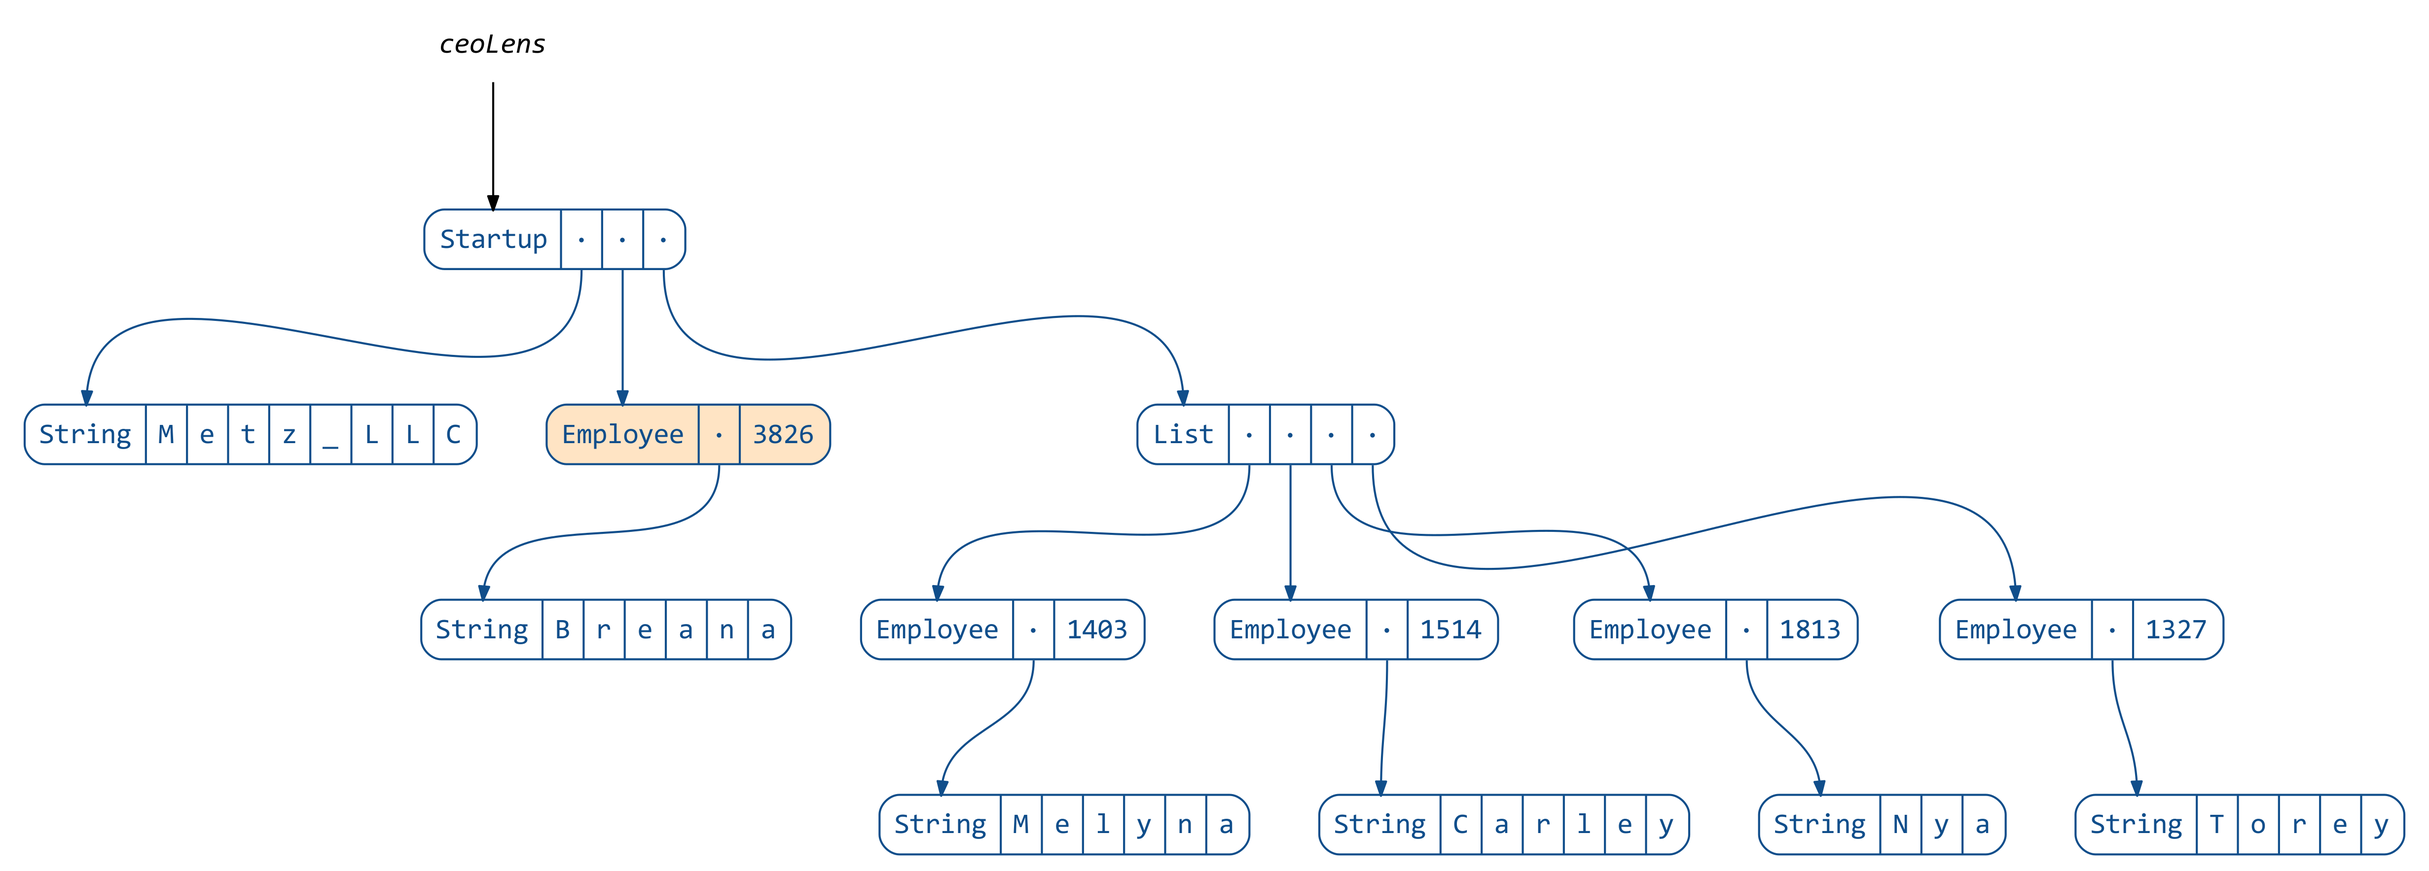
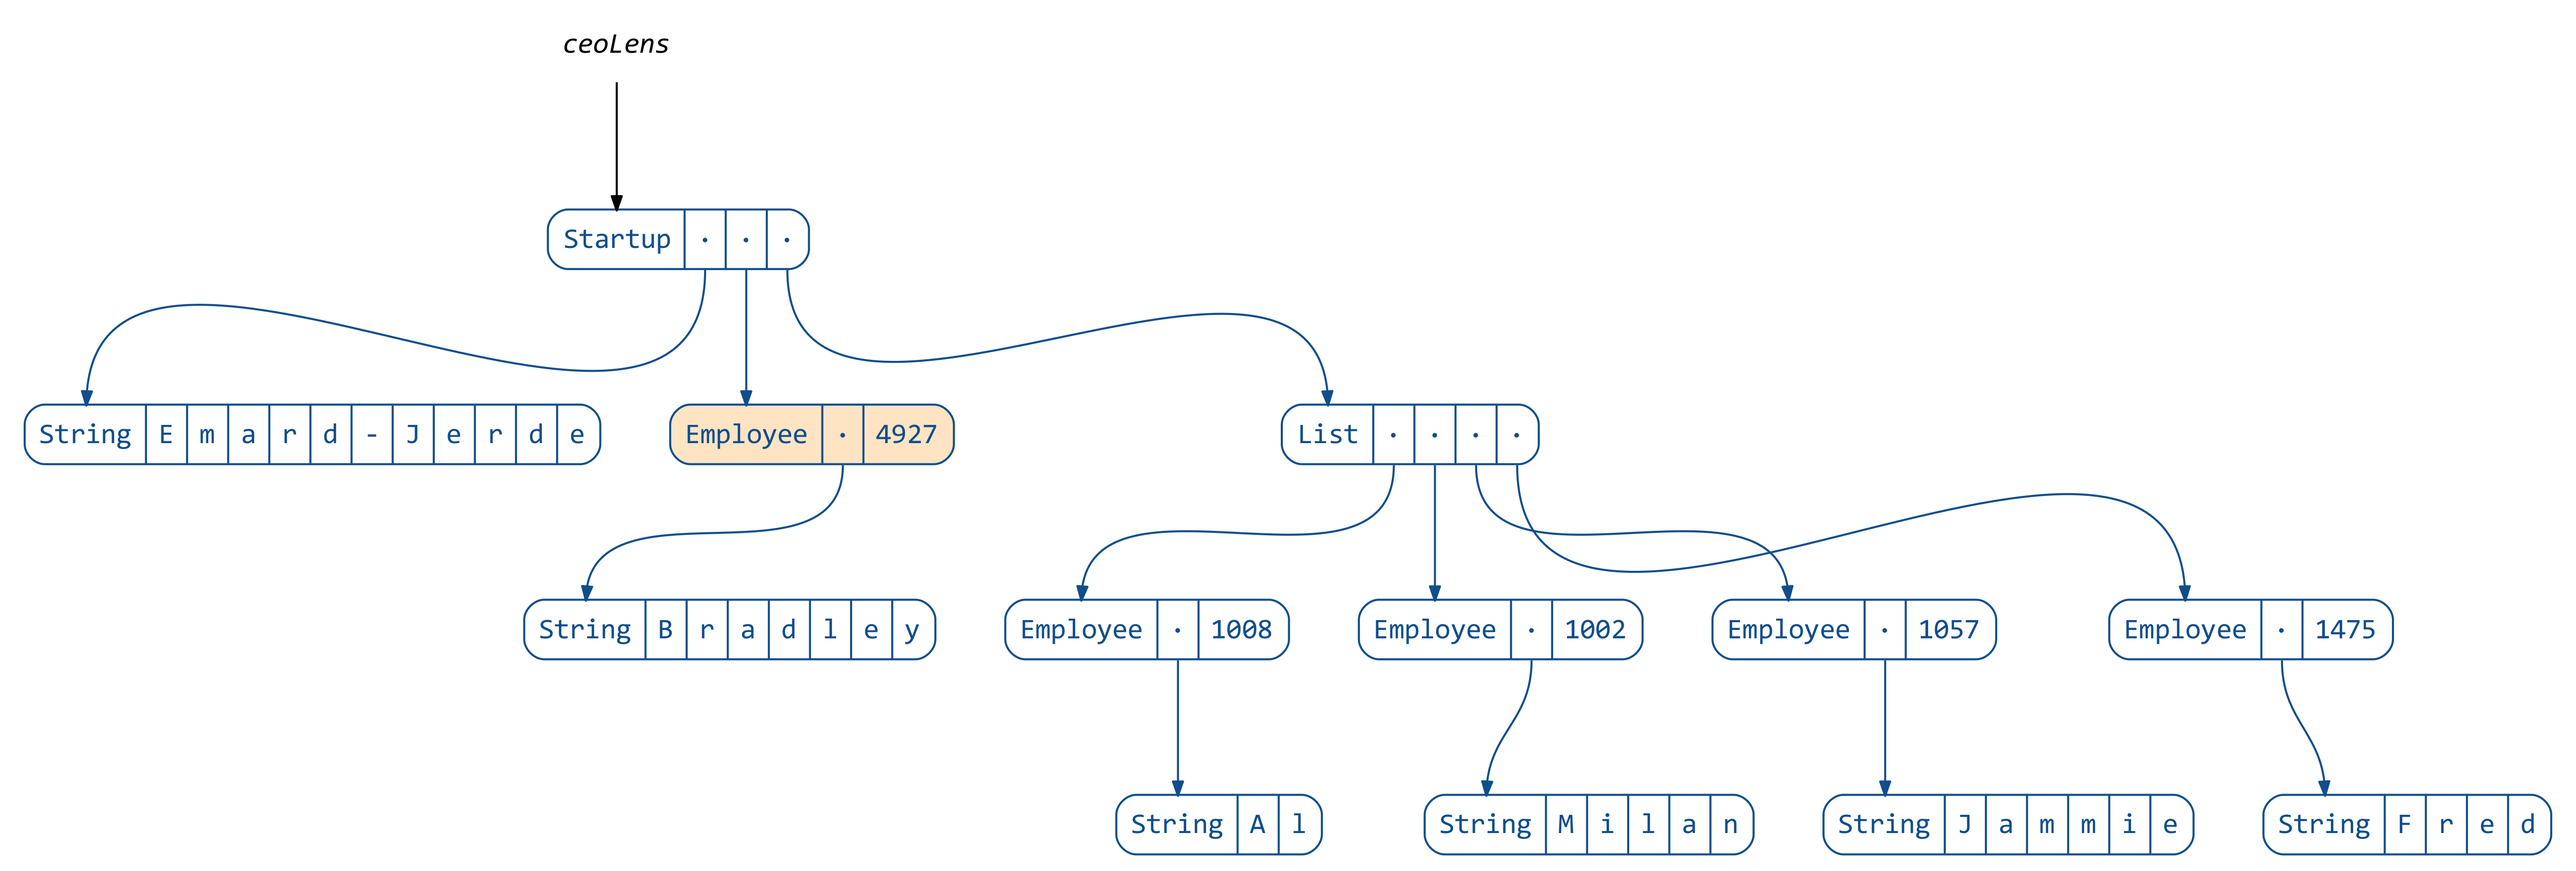
Add video and more sources

diff --git a/README.md b/README.md
@@ -1,8 +1,9 @@
 ## Unzipping Immutability
 
 This repository contains the materials for the talk I gave at
-[LX Scala 2016](http://www.lxscala.com/schedule/#session-2). You can use it
-in two ways:
+[LX Scala 2016](http://www.lxscala.com/schedule/#session-2)
+([video](https://vimeo.com/162214356)).
+You can use it in two ways:
 
 * as a reference/refresher on the concepts covered in the talk;
 * as an interactive playground where you can try the same commands I presented.
@@ -58,10 +59,10 @@ case class Employee(
 
 ```scala
 scala> val employee = employees.sample.get
-employee: unzimm.Data.Employee = Employee(Brandi,1007)
+employee: unzimm.Data.Employee = Employee(Janice,1180)
 
 scala> val raisedEmployee = employee.copy(salary = employee.salary + 10)
-raisedEmployee: unzimm.Data.Employee = Employee(Brandi,1017)
+raisedEmployee: unzimm.Data.Employee = Employee(Janice,1190)
 ```
 
 However once composition comes into play, the resulting nested immutable data structures
@@ -82,14 +83,14 @@ case class Startup(
 
 ```scala
 scala> val startup = startups.sample.get
-startup: unzimm.Data.Startup = Startup(Hickle-Wyman,Employee(Maybelle,3542),List(Employee(Khalid,1719), Employee(Jaylen,1509), Employee(Madelyn,1890), Employee(Danyka,1413)))
+startup: unzimm.Data.Startup = Startup(Abbott Group,Employee(Sheila,3851),List(Employee(Guadalupe,1452), Employee(Nelson,1661), Employee(Marianna,1711), Employee(Rogelio,1554)))
 
 scala> val raisedCeo = startup.copy(
      |   ceo = startup.ceo.copy(
      |     salary = startup.ceo.salary + 10
      |   )
      | )
-raisedCeo: unzimm.Data.Startup = Startup(Hickle-Wyman,Employee(Maybelle,3552),List(Employee(Khalid,1719), Employee(Jaylen,1509), Employee(Madelyn,1890), Employee(Danyka,1413)))
+raisedCeo: unzimm.Data.Startup = Startup(Abbott Group,Employee(Sheila,3861),List(Employee(Guadalupe,1452), Employee(Nelson,1661), Employee(Marianna,1711), Employee(Rogelio,1554)))
 ```
 
 ```scala
@@ -119,13 +120,13 @@ import monocle.macros.GenLens
 
 scala> val salaryLens = GenLens[Employee](_.salary)
 warning: there was one feature warning; re-run with -feature for details
-salaryLens: monocle.Lens[unzimm.Data.Employee,Long] = $anon$1@2ee1abab
+salaryLens: monocle.Lens[unzimm.Data.Employee,Long] = $anon$1@1ecd59ae
 
 scala> salaryLens.get(startup.ceo)
-res2: Long = 3542
+res2: Long = 3851
 
 scala> salaryLens.modify(s => s + 10)(startup.ceo)
-res3: unzimm.Data.Employee = Employee(Maybelle,3552)
+res3: unzimm.Data.Employee = Employee(Sheila,3861)
 ```
 
 ```scala
@@ -139,10 +140,10 @@ We can also define a lens that focuses on the startup’s CEO:
 ```scala
 scala> val ceoLens = GenLens[Startup](_.ceo)
 warning: there was one feature warning; re-run with -feature for details
-ceoLens: monocle.Lens[unzimm.Data.Startup,unzimm.Data.Employee] = $anon$1@4bf23e52
+ceoLens: monocle.Lens[unzimm.Data.Startup,unzimm.Data.Employee] = $anon$1@269bd723
 
 scala> ceoLens.get(startup)
-res5: unzimm.Data.Employee = Employee(Maybelle,3542)
+res5: unzimm.Data.Employee = Employee(Sheila,3851)
 ```
 
 ```scala
@@ -155,13 +156,13 @@ It’s not apparent yet how this would help, but the trick is that lenses can be
 
 ```scala
 scala> val ceoSalaryLens = ceoLens composeLens salaryLens
-ceoSalaryLens: monocle.PLens[unzimm.Data.Startup,unzimm.Data.Startup,Long,Long] = monocle.PLens$$anon$1@44b16027
+ceoSalaryLens: monocle.PLens[unzimm.Data.Startup,unzimm.Data.Startup,Long,Long] = monocle.PLens$$anon$1@1966b992
 
 scala> ceoSalaryLens.get(startup)
-res7: Long = 3542
+res7: Long = 3851
 
 scala> ceoSalaryLens.modify(s => s + 10)(startup)
-res8: unzimm.Data.Startup = Startup(Hickle-Wyman,Employee(Maybelle,3552),List(Employee(Khalid,1719), Employee(Jaylen,1509), Employee(Madelyn,1890), Employee(Danyka,1413)))
+res8: unzimm.Data.Startup = Startup(Abbott Group,Employee(Sheila,3861),List(Employee(Guadalupe,1452), Employee(Nelson,1661), Employee(Marianna,1711), Employee(Rogelio,1554)))
 ```
 
 ```scala
@@ -184,13 +185,13 @@ We can use it to give our CEO a funny name:
 ```scala
 scala> val employeeNameLens = GenLens[Employee](_.name)
 warning: there was one feature warning; re-run with -feature for details
-employeeNameLens: monocle.Lens[unzimm.Data.Employee,String] = $anon$1@5ac7a8aa
+employeeNameLens: monocle.Lens[unzimm.Data.Employee,String] = $anon$1@3fa8719
 
 scala> val ceoVowelLens = ceoLens composeLens employeeNameLens composeLens vowelLens
-ceoVowelLens: monocle.PLens[unzimm.Data.Startup,unzimm.Data.Startup,Char,Char] = monocle.PLens$$anon$1@669001fe
+ceoVowelLens: monocle.PLens[unzimm.Data.Startup,unzimm.Data.Startup,Char,Char] = monocle.PLens$$anon$1@6c1cbd62
 
 scala> ceoVowelLens.modify(v => v.toUpper)(startup)
-res11: unzimm.Data.Startup = Startup(Hickle-Wyman,Employee(MAybEllE,3542),List(Employee(Khalid,1719), Employee(Jaylen,1509), Employee(Madelyn,1890), Employee(Danyka,1413)))
+res11: unzimm.Data.Startup = Startup(Abbott Group,Employee(ShEIlA,3851),List(Employee(Guadalupe,1452), Employee(Nelson,1661), Employee(Marianna,1711), Employee(Rogelio,1554)))
 ```
 
 ```scala
@@ -210,7 +211,7 @@ scala> import com.softwaremill.quicklens._
 import com.softwaremill.quicklens._
 
 scala> val raisedCeo = startup.modify(_.ceo.salary).using(s => s + 10)
-raisedCeo: unzimm.Data.Startup = Startup(Hickle-Wyman,Employee(Maybelle,3552),List(Employee(Khalid,1719), Employee(Jaylen,1509), Employee(Madelyn,1890), Employee(Danyka,1413)))
+raisedCeo: unzimm.Data.Startup = Startup(Abbott Group,Employee(Sheila,3861),List(Employee(Guadalupe,1452), Employee(Nelson,1661), Employee(Marianna,1711), Employee(Rogelio,1554)))
 ```
 
 You might think this is approaching the syntax for updating mutable data,
@@ -219,7 +220,7 @@ but actually we have already surpassed it, since lens are much more flexible:
 
 ```scala
 scala> val raisedEveryone = startup.modifyAll(_.ceo.salary, _.team.each.salary).using(s => s + 10)
-raisedEveryone: unzimm.Data.Startup = Startup(Hickle-Wyman,Employee(Maybelle,3552),List(Employee(Khalid,1729), Employee(Jaylen,1519), Employee(Madelyn,1900), Employee(Danyka,1423)))
+raisedEveryone: unzimm.Data.Startup = Startup(Abbott Group,Employee(Sheila,3861),List(Employee(Guadalupe,1462), Employee(Nelson,1671), Employee(Marianna,1721), Employee(Rogelio,1564)))
 ```
 
 
@@ -479,10 +480,12 @@ assert(tree3a == tree3b)
   and/or [his PhD thesis](https://www.cs.cmu.edu/~rwh/theses/okasaki.pdf) — *the* introduction to immutable data structures
 * [What’s new in purely functional data structures since Okasaki](http://cstheory.stackexchange.com/a/1550) — an excellent StackExchange answer
   with pointers for further reading
+* [Extreme cleverness](https://www.youtube.com/watch?v=pNhBQJN44YQ) by Daniel Spiewak — a superb talk
+  covering several immutable data structures (implemented [here](https://github.com/djspiewak/extreme-cleverness))
 * [Huet’s original Zipper paper](https://www.st.cs.uni-saarland.de/edu/seminare/2005/advanced-fp/docs/huet-zipper.pdf) — a great short read
   introducing the Zipper
-* [“Extreme cleverness”](https://www.youtube.com/watch?v=pNhBQJN44YQ) by Daniel Spiewak — a superb talk
-  covering several immutable data structures (implemented [here](https://github.com/djspiewak/extreme-cleverness))
+* [Weaving a web](http://dspace.library.uu.nl/bitstream/handle/1874/2532/2001-33.pdf) by Hinze and Jeuring —
+  another interesting Zipper-like approach
 
 #### Scala libraries
 

diff --git a/src/main/tut/README.md b/src/main/tut/README.md
@@ -1,8 +1,9 @@
 ## Unzipping Immutability
 
 This repository contains the materials for the talk I gave at
-[LX Scala 2016](http://www.lxscala.com/schedule/#session-2). You can use it
-in two ways:
+[LX Scala 2016](http://www.lxscala.com/schedule/#session-2)
+([video](https://vimeo.com/162214356)).
+You can use it in two ways:
 
 * as a reference/refresher on the concepts covered in the talk;
 * as an interactive playground where you can try the same commands I presented.
@@ -452,10 +453,12 @@ assert(tree3a == tree3b)
   and/or [his PhD thesis](https://www.cs.cmu.edu/~rwh/theses/okasaki.pdf) — *the* introduction to immutable data structures
 * [What’s new in purely functional data structures since Okasaki](http://cstheory.stackexchange.com/a/1550) — an excellent StackExchange answer
   with pointers for further reading
+* [Extreme cleverness](https://www.youtube.com/watch?v=pNhBQJN44YQ) by Daniel Spiewak — a superb talk
+  covering several immutable data structures (implemented [here](https://github.com/djspiewak/extreme-cleverness))
 * [Huet’s original Zipper paper](https://www.st.cs.uni-saarland.de/edu/seminare/2005/advanced-fp/docs/huet-zipper.pdf) — a great short read
   introducing the Zipper
-* [“Extreme cleverness”](https://www.youtube.com/watch?v=pNhBQJN44YQ) by Daniel Spiewak — a superb talk
-  covering several immutable data structures (implemented [here](https://github.com/djspiewak/extreme-cleverness))
+* [Weaving a web](http://dspace.library.uu.nl/bitstream/handle/1874/2532/2001-33.pdf) by Hinze and Jeuring —
+  another interesting Zipper-like approach
 
 #### Scala libraries
 
